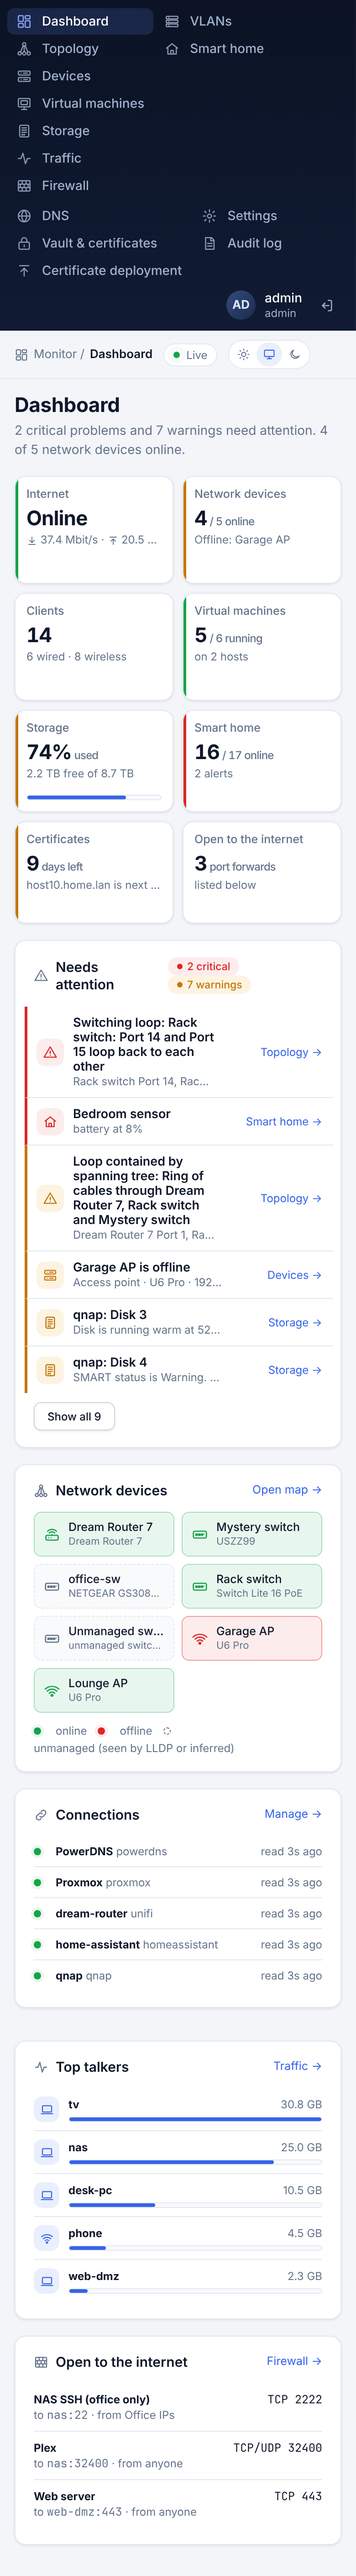
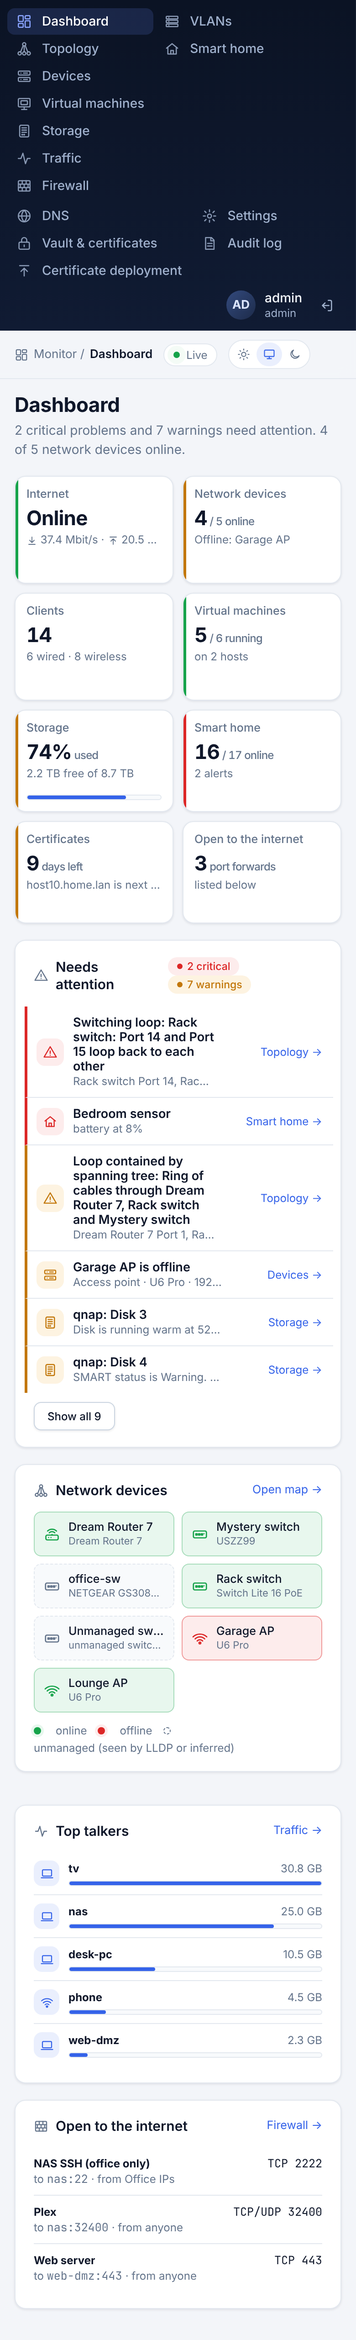
Drop the Connections card from the dashboard
Settings already lists every connection; one NCC can't read still shows in
Needs attention.

Claude-Session: https://claude.ai/code/session_01S1exWP1TGUNJVvHUuiixJt

diff --git a/web/src/pages/Dashboard.tsx b/web/src/pages/Dashboard.tsx
@@ -5,15 +5,17 @@
 //   - one status tile per area (internet, devices, clients, VMs, storage, smart home,
 //     certificates, exposed ports); optional areas only appear once they are set up,
 //   - "Needs attention": every problem from every area in one list, worst first,
-//   - device availability and traffic/exposure details.
+//   - device availability, top talkers and ports open to the internet.
+//
+// Connection health is not listed here (Settings has the full list); a connection NCC
+// can't read shows up in "Needs attention" instead.
 //
 // Each fact is shown once: tiles summarise an area, the attention list names the problems,
 // and the lower cards give the detail that no other panel shows. Data loading and the
 // problem rules live in dashboardModel.ts.
 
 import { useState } from "react";
-import { Target } from "../api";
-import { ago, kindLabel } from "../live";
+import { kindLabel } from "../live";
 import { Icon, IconName, kindIcon } from "../icons";
 import { Meter, Sparkline } from "../charts";
 import { bytes, rate } from "./Traffic";
@@ -44,7 +46,6 @@ export function Dashboard({ tick }: { tick: number }) {
       <div className="grid-main">
         <div>
           <Availability d={d} />
-          <Connections targets={d.targets} />
         </div>
         <div>
           <TopTalkers d={d} />
@@ -323,34 +324,6 @@ function ExposedPorts({ d }: { d: DashData }) {
         })}
       </ul>
       {forwards.length > limit && <p className="muted small">and {forwards.length - limit} more on the Firewall page.</p>}
-    </section>
-  );
-}
-
-/** Connections: each system NCC reads from, and when it last answered. */
-function Connections({ targets }: { targets?: Target[] }) {
-  return (
-    <section className="card">
-      <div className="card-head">
-        <h2><Icon name="link" size={16} /> Connections</h2>
-        <a href="#/settings">Manage →</a>
-      </div>
-      {!targets?.length ? (
-        <p className="muted">Nothing connected yet. Add your router and DNS server in <a href="#/settings">Settings</a>.</p>
-      ) : (
-        <ul className="list">
-          {targets.map((t) => {
-            const [tone, word] = !t.enabled ? ["", "disabled"] : t.last_error ? ["bad", "error"] : !t.last_poll ? ["", "not checked yet"] : ["good", `read ${ago(t.last_poll)}`];
-            return (
-              <li key={t.id} title={t.last_error || t.address}>
-                <span className={`dot ${tone}`} />
-                <span className="grow-col small"><strong>{t.name}</strong> <span className="muted">{t.kind}</span></span>
-                <span className="small muted">{word}</span>
-              </li>
-            );
-          })}
-        </ul>
-      )}
     </section>
   );
 }
